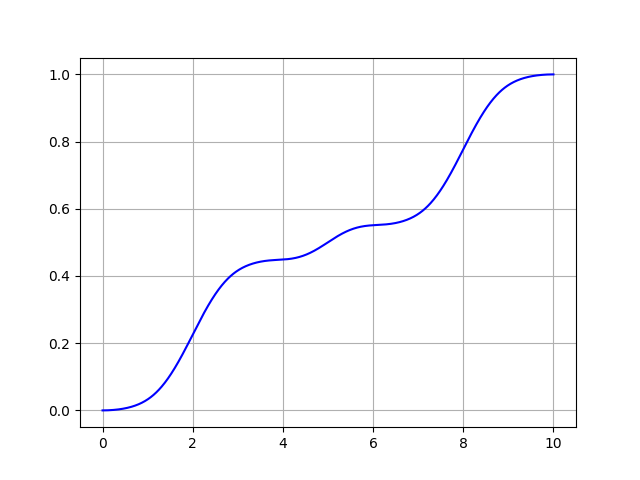
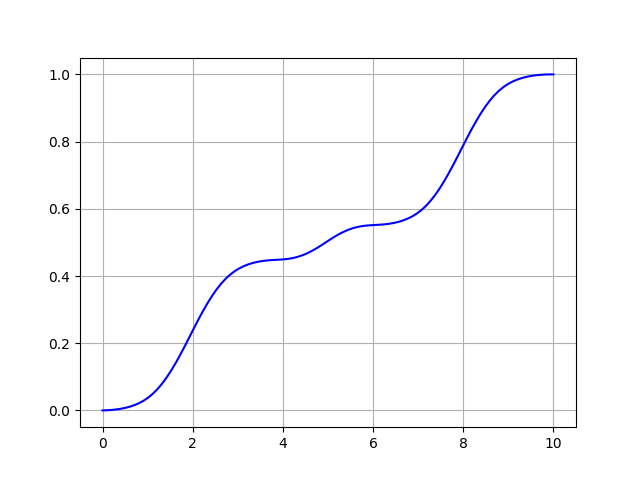
add pic

diff --git a/l-03/code/e3.py b/l-03/code/e3.py
@@ -6,15 +6,15 @@ xs = np.array([0, 0.5, 1, 2, 3, 3.5, 4,   5, 6,   6.5, 7, 8, 9, 9.5, 10])
 ys = np.array([0, 0.3, 1, 3, 1, 0.3, 0.1, 1, 0.1, 0.3, 1, 3, 1, 0.3, 0])
 
 f = interp1d(xs, ys, kind="cubic")
-xis = np.linspace(0, xs[-1], 1000)
+xis = np.linspace(0, xs[-1], 100)
 yis = f(xis)
 
-yis = yis / (sum(yis) * 10/1000)
+yis = yis / (sum(yis) * 10/100)
 
 F = []
 prev = 0
 for y in yis:
-    s = y * 0.01
+    s = y * 10/100
     F.append(prev + s)
     prev += s
 

diff --git a/l-03/code/e2.py b/l-03/code/e2.py
@@ -6,10 +6,10 @@ xs = np.array([0, 0.5, 1, 2, 3, 3.5, 4,   5, 6,   6.5, 7, 8, 9, 9.5, 10])
 ys = np.array([0, 0.3, 1, 3, 1, 0.3, 0.1, 1, 0.1, 0.3, 1, 3, 1, 0.3, 0])
 
 f = interp1d(xs, ys, kind="cubic")
-xis = np.linspace(0, xs[-1], 1000)
+xis = np.linspace(0, xs[-1], 100)
 yis = f(xis)
 
-yis = yis / (sum(yis) * 10/1000)
+yis = yis / (sum(yis) * 10/100)
 
 plt.plot(xis, yis, "b")
 plt.grid(True)

diff --git a/l-03/notes.md b/l-03/notes.md
@@ -106,10 +106,10 @@ xs = np.array([0, 0.5, 1, 2, 3, 3.5, 4,   5, 6,   6.5, 7, 8, 9, 9.5, 10])
 ys = np.array([0, 0.3, 1, 3, 1, 0.3, 0.1, 1, 0.1, 0.3, 1, 3, 1, 0.3, 0])
 
 f = interp1d(xs, ys, kind="cubic")
-xis = np.linspace(0, xs[-1], 1000)
+xis = np.linspace(0, xs[-1], 100)
 yis = f(xis)
 
-yis = yis / (sum(yis) * 10/1000)
+yis = yis / (sum(yis) * 10/100)
 
 plt.plot(xis, yis, "b")
 plt.grid(True)
@@ -145,7 +145,7 @@ yis = f(xis)
 Здесь
 
 ```
-yis = yis / (sum(yis) * 10/1000)
+yis = yis / (sum(yis) * 10/100)
 ```
 
 я делаю так, чтобы интеграл плотности вероятности был равен
@@ -171,15 +171,15 @@ xs = np.array([0, 0.5, 1, 2, 3, 3.5, 4,   5, 6,   6.5, 7, 8, 9, 9.5, 10])
 ys = np.array([0, 0.3, 1, 3, 1, 0.3, 0.1, 1, 0.1, 0.3, 1, 3, 1, 0.3, 0])
 
 f = interp1d(xs, ys, kind="cubic")
-xis = np.linspace(0, xs[-1], 1000)
+xis = np.linspace(0, xs[-1], 100)
 yis = f(xis)
 
-yis = yis / (sum(yis) * 10/1000)
+yis = yis / (sum(yis) * 10/100)
 
 F = []
 prev = 0
 for y in yis:
-	s = y * 0.01
+	s = y * 10/100
 	F.append(prev + s)
 	prev += s
 
@@ -194,7 +194,7 @@ plt.savefig("e3.png")
 F = []
 prev = 0
 for y in yis:
-	s = y * 0.01
+	s = y * 10/100
 	F.append(prev + s)
 	prev += s
 ```
@@ -203,6 +203,10 @@ for y in yis:
 получаем как сумму предыдущего значения и очередного значения
 плотности вероятности, умноженного на шаг интерполирования. Т.е. мы
 численно интегрируем плотность вероятности.
+
+Результат соответствует нашим ожиданиям:
+
+![Функция](./code/e3.png)
 
 ## Домашнее задание
 
